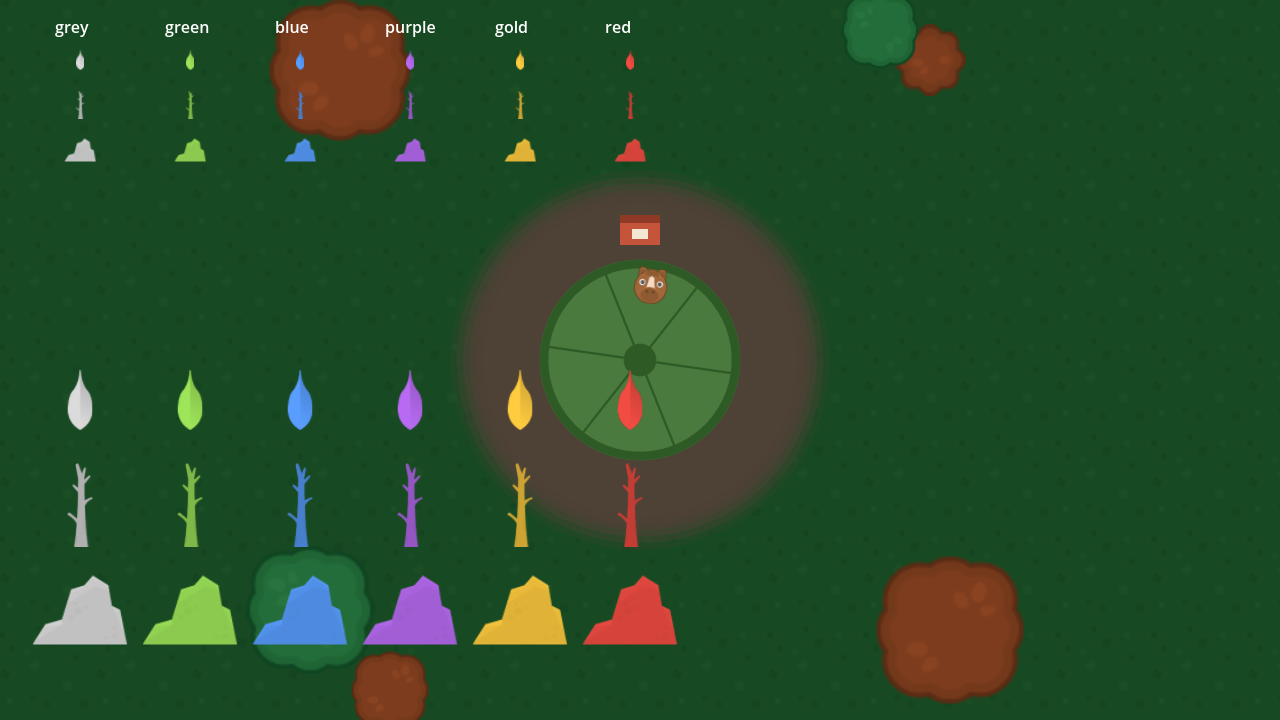
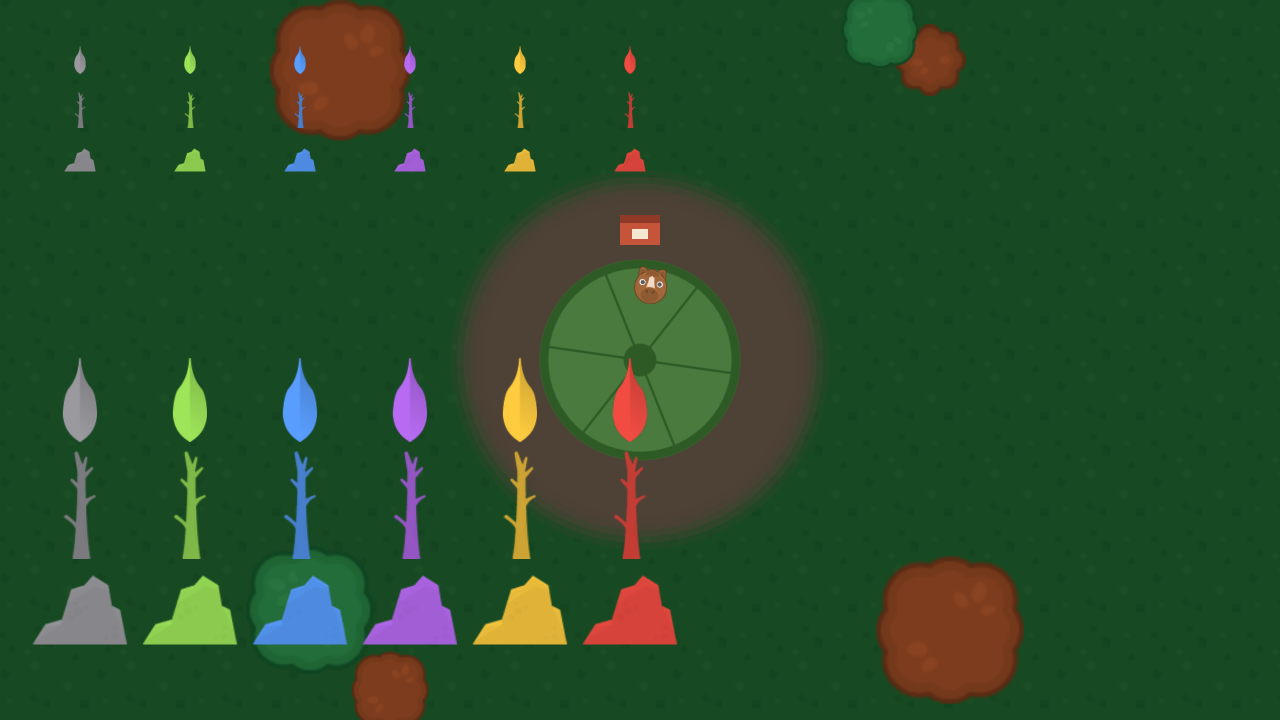
Garret's Step 3 notes: Stick sway, plainer grey, more Sticks and Rocks
Sticks rock side to side while flying in (EnemyStick: sine sway on Visual's
rotation, random phase per Stick, stops once latched), instead of sitting
still or spinning like the Leaf. Computed in advance(), not a Tween per enemy,
which adds up with hundreds on screen.

Grey tint 0.86 -> 0.60 so Grey reads grey, not silver.

Waves: Grey 80/20/5 with Sticks after 20 kills (cap 2) and Rocks after 60
(cap 1); Green 65/25/10, Stick cap 3, Rocks after 20 Green kills. Rocks
never appeared before because Grey had none and Green needed 40 Green kills.

diff --git a/planning/phase3/README.md b/planning/phase3/README.md
@@ -43,6 +43,13 @@ Before = commit cdbead7 (with sound). After = end of Step 2 (silent, `--audio-dr
 - Open, minor: the tool sometimes prints "4 resources still in use at exit" since Step 2 (not
   sound-related; the game itself doesn't show it). Look at it with `--verbose` when convenient.
 
+## Decided 2026-09-25 (Garret, after seeing Step 3)
+- **More Sticks and Rocks early:** Grey waves 80 / 20 / 5 (Leaf / Stick / Rock), Sticks after 20
+  Grey kills (cap 2), Rocks after 60 (cap 1). Green 65 / 25 / 10, Stick cap 3, Rocks after 20
+  Green kills. (Replaces the Step 1 table's Grey and Green rows; Blue+ unchanged.)
+- **Stick health is right**, Leaf too. **Grey tint** darker (0.60), less silver.
+- **Sticks sway** side to side as they fly in (`EnemyStick`, `sway_degrees` / `sway_hz` exports).
+
 ## Decided 2026-09-24 (Garret)
 - **Boss access:** a minimal per-tier kill gate plus a manual "Challenge boss" button, built
   in Phase 3. HUD polish and the full shop visibility system stay in Phase 4. (Q1)
